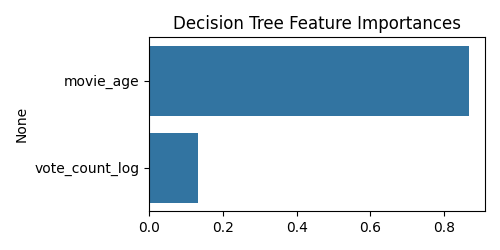
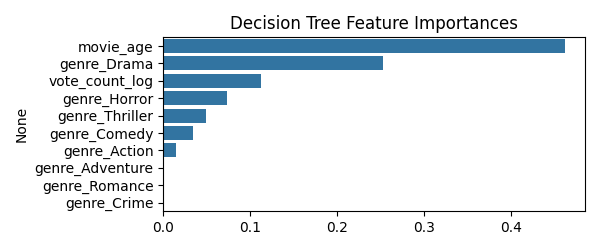
Updated the second ML model and Movie Rating vs Vote Count visualization

diff --git a/src/step4_machine_learning.py b/src/step4_machine_learning.py
@@ -6,7 +6,7 @@ import pandas as pd
 import matplotlib.pyplot as plt
 import seaborn as sns
 
-from sklearn.preprocessing import StandardScaler
+from sklearn.preprocessing import StandardScaler, MultiLabelBinarizer
 from sklearn.cluster import KMeans
 from sklearn.model_selection import train_test_split
 from sklearn.tree import DecisionTreeClassifier
@@ -22,7 +22,7 @@ OUT_DIR = "reports/figures"
 os.makedirs(OUT_DIR, exist_ok=True)
 
 
-def run_ml_pipeline(input_csv: str = DATA_PATH, random_state: int = 42):
+def run_ml_pipeline(input_csv: str = DATA_PATH, random_state: int = 42, top_n_genres: int = 8):
     """
     Executes KMeans clustering and Decision Tree classification.
     Produces evaluation metrics and confusion matrix plots.
@@ -33,22 +33,18 @@ def run_ml_pipeline(input_csv: str = DATA_PATH, random_state: int = 42):
         Path to the cleaned dataset.
     random_state : int, optional
         Seed for reproducibility (default is 42).
+    top_n_genres : int, optional
+        Number of top genres to one-hot encode for the classifier.
 
     Returns:
     --------
     dict
         A dictionary containing key model metrics (e.g., accuracy, silhouette).
-
-    Raises:
-    -------
-    ValueError
-        If the input dataset has insufficient rows for a train/test split.
     """
-
     try:
-        # -----------------------
+        
         # LOAD & FEATURE ENGINEERING
-        # -----------------------
+        
         df = pd.read_csv(input_csv)
         if len(df) < 50:
             raise ValueError("Insufficient data for ML training.")
@@ -58,9 +54,9 @@ def run_ml_pipeline(input_csv: str = DATA_PATH, random_state: int = 42):
         current_year = datetime.now().year
         df["movie_age"] = current_year - df["release_date"].dt.year
 
-        # -----------------------
+        
         # PART 1: KMEANS CLUSTERING (vote_average + movie_age)
-        # -----------------------
+        
         df_clust = df.dropna(subset=["vote_average", "movie_age"]).copy()
         if df_clust.shape[0] > 0:
             X_clust = df_clust[["vote_average", "movie_age"]].values
@@ -78,7 +74,15 @@ def run_ml_pipeline(input_csv: str = DATA_PATH, random_state: int = 42):
 
             # Plot: movie_age vs vote_average colored by cluster
             plt.figure(figsize=(8, 6))
-            sns.scatterplot(data=df_clust, x="movie_age", y="vote_average", hue="cluster", palette="tab10", s=30, edgecolor="k", linewidth=0.2)
+            sns.scatterplot(
+                data=df_clust,
+                x="movie_age",
+                y="vote_average",
+                hue="cluster",
+                palette="tab10",
+                s=30,
+                linewidth=0.2,
+            )
             plt.title("KMeans Clusters: Movie Age vs Vote Average")
             plt.xlabel("Movie Age (years)")
             plt.ylabel("Vote Average")
@@ -88,38 +92,74 @@ def run_ml_pipeline(input_csv: str = DATA_PATH, random_state: int = 42):
             plt.show()
         else:
             print("No data available for clustering (missing vote_average or movie_age).")
+            sil = None
 
-        # -----------------------
-        # PART 2: SIMPLE CLASSIFICATION (quantile classes)
-        # -----------------------
-        # Need vote_average, vote_count, movie_age for this simple classifier
+        
+        # PART 2: SIMPLE CLASSIFICATION (quantile classes) WITH GENRES
+        
+        # Need vote_average, vote_count, movie_age for this classifier
         df_clf = df.dropna(subset=["vote_average", "vote_count", "movie_age"]).copy()
         if df_clf.shape[0] < 50:
             print("Not enough data for classification after dropping missing values.")
-            return
+            return None
 
         # Create balanced classes using quantiles (3 classes: low/medium/high)
-        # duplicates='drop' prevents errors if many identical values at edges
-        df_clf["rating_class"] = pd.qcut(df_clf["vote_average"], q=3, labels=["low", "medium", "high"], duplicates="drop")
+        df_clf["rating_class"] = pd.qcut(
+            df_clf["vote_average"], q=3, labels=["low", "medium", "high"], duplicates="drop"
+        )
 
         # If qcut dropped duplicate bins and produced fewer classes, inform user
-        classes_present = df_clf["rating_class"].unique().tolist()
         print("\nRating classes created (counts):")
         print(df_clf["rating_class"].value_counts())
 
         # Features: vote_count_log and movie_age (do NOT use vote_average to avoid leakage)
         df_clf["vote_count_log"] = np.log1p(df_clf["vote_count"].astype(float))
-        feature_cols = ["vote_count_log", "movie_age"]
-        X = df_clf[feature_cols].values
-        y = df_clf["rating_class"].values
+        X_num = df_clf[["vote_count_log", "movie_age"]]
 
-        # Train/test split (stratify by class to keep balance)
-        X_train, X_test, y_train, y_test = train_test_split(
-            X, y, test_size=0.2, random_state=random_state, stratify=y
+        
+        # GENRE ENCODING (TOP N)
+        # Parse genres into lists, handle missing
+        genres_series = (
+            df_clf["genre"].fillna("").astype(str).apply(lambda s: [g.strip() for g in s.split(",") if g.strip()])
         )
 
+        # Find top N genres (frequency)
+        all_genres = pd.Series([g for sub in genres_series for g in sub])
+        if len(all_genres) > 0:
+            top_genres = all_genres.value_counts().head(top_n_genres).index.tolist()
+        else:
+            top_genres = []
+
+        if top_genres:
+            mlb = MultiLabelBinarizer(classes=top_genres)
+            genre_dummies = pd.DataFrame(
+                mlb.fit_transform(genres_series.apply(lambda g: [x for x in g if x in top_genres])),
+                columns=[f"genre_{g}" for g in mlb.classes_],
+                index=df_clf.index,
+            )
+        else:
+            genre_dummies = pd.DataFrame(index=df_clf.index)
+
+        # Combine features
+        X = pd.concat([X_num.reset_index(drop=True), genre_dummies.reset_index(drop=True)], axis=1)
+        y = df_clf["rating_class"].reset_index(drop=True)
+
+        print(f"\nClassifier features: {list(X.columns)}")
+
+        # Drop rows with any NaNs in X
+        valid_idx = X.dropna().index
+        X = X.loc[valid_idx].reset_index(drop=True)
+        y = y.loc[valid_idx].reset_index(drop=True)
+
+        if X.shape[0] < 30:
+            print("Not enough data after preprocessing to train.")
+            return None
+
+        # Train/test split (stratify by class to keep balance)
+        X_train, X_test, y_train, y_test = train_test_split(X, y, test_size=0.2, random_state=random_state, stratify=y)
+
         # Train Decision Tree
-        clf = DecisionTreeClassifier(max_depth=4, random_state=random_state)
+        clf = DecisionTreeClassifier(max_depth=5, random_state=random_state)
         clf.fit(X_train, y_train)
         y_pred = clf.predict(X_test)
 
@@ -131,13 +171,11 @@ def run_ml_pipeline(input_csv: str = DATA_PATH, random_state: int = 42):
 
         # Confusion matrix
         labels_order = ["low", "medium", "high"]
-        # keep only labels that exist in y_test
-        labels_in_test = [l for l in labels_order if l in y_test]
+        labels_in_test = [l for l in labels_order if l in y_test.values]
         cm = confusion_matrix(y_test, y_pred, labels=labels_in_test)
 
         plt.figure(figsize=(6, 5))
-        sns.heatmap(cm, annot=True, fmt="d", cmap="Blues",
-                    xticklabels=labels_in_test, yticklabels=labels_in_test)
+        sns.heatmap(cm, annot=True, fmt="d", cmap="Blues", xticklabels=labels_in_test, yticklabels=labels_in_test)
         plt.title("Confusion Matrix: Rating Classification")
         plt.xlabel("Predicted")
         plt.ylabel("Actual")
@@ -147,10 +185,10 @@ def run_ml_pipeline(input_csv: str = DATA_PATH, random_state: int = 42):
 
         # Feature importances (from Decision Tree)
         if hasattr(clf, "feature_importances_"):
-            fi = pd.Series(clf.feature_importances_, index=feature_cols).sort_values(ascending=False)
+            fi = pd.Series(clf.feature_importances_, index=X.columns).sort_values(ascending=False)
             print("\nFeature importances:")
             print(fi.round(4))
-            plt.figure(figsize=(5, 2.5))
+            plt.figure(figsize=(6, max(2.5, 0.25 * len(fi))))
             sns.barplot(x=fi.values, y=fi.index)
             plt.title("Decision Tree Feature Importances")
             plt.tight_layout()
@@ -158,14 +196,13 @@ def run_ml_pipeline(input_csv: str = DATA_PATH, random_state: int = 42):
             plt.show()
 
         # Save a small summary CSV
-        summary_df = pd.DataFrame({
-            "metric": ["accuracy"],
-            "value": [acc]
-        })
+        summary_df = pd.DataFrame({"metric": ["accuracy", "silhouette"], "value": [acc, sil if sil is not None else np.nan]})
         summary_df.to_csv(os.path.join(OUT_DIR, "rating_classification_summary.csv"), index=False)
         print(f"\nSaved outputs to {OUT_DIR}")
 
-        print("ML Pipeline executed successfully.")
+        # Return metrics for programmatic use
+        return {"accuracy": float(acc), "silhouette": float(sil) if sil is not None else None}
+
     except Exception as e:
         print(f"ML Pipeline Error: {e}")
         return None

diff --git a/src/step3_data_visualization.py b/src/step3_data_visualization.py
@@ -78,12 +78,12 @@ def run_visualizations():
     # VIS 5: Scatter Plot with Trend Line (Rating vs Vote Count)
     # Insight: Do the highest-rated movies have a strong consensus (many votes)?
     plt.figure(figsize=(10, 6))
-    sns.regplot(data=df, x="vote_average", y="vote_count",
+    sns.regplot(data=df, x="vote_count", y="vote_average",
                 scatter_kws={'alpha':0.3, 'color':'teal'},
                 line_kws={'color':'red'})
     plt.title("Movie Rating vs. Vote Count (Consensus)")
-    plt.xlabel("Vote Average")
-    plt.ylabel("Number of Votes")
+    plt.xlabel("Number of Votes")
+    plt.ylabel("Vote Average")
     plt.tight_layout()
     plt.savefig(os.path.join(FIGURES_PATH, "rating_vs_votes_trend.png"))
     plt.close()
